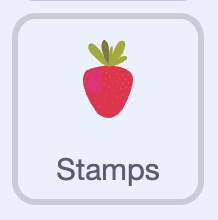
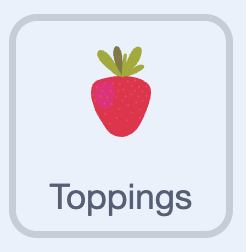
edits

diff --git a/en/step_7.md b/en/step_7.md
@@ -1,6 +1,14 @@
 ## Add encouragement
 
-In this step, you'll add pop-up **nice comments** that cheer the player on. 
+In this step, you'll add pop-up **comments** that cheer the player on.
+
+--- task ---
+
+Add a new sprite for your comments, and make a costume for each message — you can type words like "So sweet!" or "Yum!", or use pictures.
+
+![Making costumes for the nice comments, one message per costume.](images/nice-comments.gif)
+
+--- /task ---
 
 --- task ---
 
@@ -10,7 +18,85 @@ Click **Make a Variable** and create a variable called `click count`. It counts 
 
 --- task ---
 
-Select the `toppings` sprite.
+Make the comment start hidden and reset the count when the project starts.
+
+```blocks3
+when green flag clicked
+set [click count v] to (0)
+hide
+```
+
+--- /task ---
+
+--- task ---
+
+Add a `forever`{:class="block3control"} loop. Once `click count`{:class="block3variables"} passes a random number, it shows the comment for a couple of seconds, then hides it and resets the count.
+
+```blocks3
+when green flag clicked
+set [click count v] to (0)
+hide
++forever
+if <(click count) > (pick random (20) to (50))> then
+show
+wait (2) seconds
+set [click count v] to (0)
+hide
+end
+end
+```
+
+--- /task ---
+
+--- task ---
+
+Add a `switch costume to ()`{:class="block3looks"} block so a random comment shows. Change the `4` in `pick random (1) to (4)`{:class="block3operators"} to match how many comment costumes you have made.
+
+```blocks3
+when green flag clicked
+set [click count v] to (0)
+hide
+forever
+if <(click count) > (pick random (20) to (50))> then
++switch costume to (pick random (1) to (4))
+show
+wait (2) seconds
+set [click count v] to (0)
+hide
+end
+end
+```
+
+--- /task ---
+
+
+--- task ---
+
+Add a `start sound ()`{:class="block3sound"} block, and choose a sound from the sound library.
+
+```blocks3
+when green flag clicked
+set [click count v] to (0)
+hide
+forever
+if <(click count) > (pick random (20) to (50))> then
+switch costume to (pick random (1) to (4))
+show
++start sound (Wand v)
+wait (2) seconds
+set [click count v] to (0)
+hide
+end
+end
+```
+
+--- /task ---
+
+--- task ---
+
+Select the **toppings** sprite.
+
+![The toppings sprite.](images/choose-topping.png)
 
 Add a `change () by ()`{:class="block3variables"} block so `click count`{:class="block3variables"} goes up by `1` each time a topping is stamped.
 
@@ -24,36 +110,4 @@ end
 
 --- /task ---
 
---- task ---
-
-Add a new sprite for your comments. In the **Costumes** tab, make a costume for each message — you can type words like "So sweet!" or "Yum!", or draw little pictures.
-
-![Making costumes for the nice comments, one message per costume.](images/nice-comments.png)
-
---- /task ---
-
---- task ---
-
-Add the **Wand** sound to the comments sprite, then add this script. It hides the comment, and after enough stamps it shows a random message for a couple of seconds before resetting.
-
-Change the `4` in `pick random (1) to (4)`{:class="block3operators"} to match how many comment costumes you made.
-
-```blocks3
-when green flag clicked
-set [click count v] to (0)
-hide
-forever
-if <(click count) > (pick random (20) to (50))> then
-switch costume to (pick random (1) to (4))
-show
-start sound (Wand v)
-wait (2) seconds
-set [click count v] to (0)
-hide
-end
-end
-```
-
---- /task ---
-
-**Test:** Click the green flag and decorate. After a while, a nice comment pops up to cheer you on.
+**Test:** Click the green flag and decorate, and see nice comments pop up to cheer you on.

diff --git a/en/step_5.md b/en/step_5.md
@@ -1,16 +1,16 @@
 ## Add a chooser button
 
-In this step, you'll make a **chooser** button for a topping and place it at the top of the stage.
+In this step, you'll make a **chooser** button and place it at the top of the stage.
 
 --- task ---
 
-In the `toppings` sprite add a new **costume**. Give your new costume a name, like `bow`, so you can find it later.
+In the **toppings** sprite add a new **costume**. Give your new costume a name, like `bow`, so you can find it later.
 
-![Duplicating a topping costume and editing it into a new topping.](images/second-topping.png)
+![Duplicating a topping costume and editing it into a new topping.](images/second-topping.gif)
 
 --- /task ---
 
-Your `toppings` sprite now has more than one costume to stamp.
+Your **toppings** sprite now has more than one costume to stamp.
 
 --- task ---
 
@@ -32,7 +32,7 @@ go to x: (-135) y: (154)
 
 --- task ---
 
-Add a **broadcast** message when clicked. Drag a `broadcast ()`{:class="block3events"} block onto a `when this sprite clicked`{:class="block3events"} block and make a new message.
+Add a `broadcast`{:class="block3events"} message block onto a `when this sprite clicked`{:class="block3events"} block and make a new message.
 
 ```blocks3
 when this sprite clicked
@@ -45,8 +45,7 @@ broadcast (bow v)
 
 Make the button feel like it is being clicked by moving it and adding sound.
 
-Add the `change y` and `play sound` to your blocks. Choose a sound from the library.
-
+Add the `change y` and `play sound` to your blocks. 
 
 ```blocks3
 when this sprite clicked
@@ -64,13 +63,21 @@ To make a chooser for your other toppings, **duplicate** this sprite, and change
 
 Move it to a different spot along the top and change the `broadcast ()`{:class="block3events"} message to match.
 
+add gif of duplicate
+
 --- /task ---
 
 --- task ---
 
-The topping now follows the mouse everywhere, including over the chooser buttons. Make it **hide** when it's up near the choosers so it doesn't block them.
+new sprite - topping
 
-Select the `toppings` sprite and add an `if then else`{:class="block3control"} block at the end of the `forever`{:class="block3control"} loop: if the `y position`{:class="block3motion"} is above `125`, it hides; otherwise it shows.
+The topping follows curser, and blocks the button. Make it **hide** when it's up near the choosers so it doesn't block them.
+
+Select the **toppings** sprite.
+
+![The toppings sprite.](images/choose-topping.png)
+
+Add an `if then else`{:class="block3control"} block at the end of the `forever`{:class="block3control"} loop: if the `y position`{:class="block3motion"} is above `125`, it hides; otherwise it shows.
 
 ```blocks3
 forever
@@ -91,4 +98,4 @@ end
 
 --- /task ---
 
-**Test:** Click the green flag. Your chooser buttons sit along the top and wobble when clicked, and the topping hides when you move up to them so you can click the buttons.
+**Test:** Click the green flag.The topping hides, and you can click the buttons.

diff --git a/en/step_4.md b/en/step_4.md
@@ -4,13 +4,15 @@ Right now your topping stamps anywhere you click. In this step, you'll make it s
 
 --- task ---
 
-Select the `toppings` sprite.
+Select the **toppings** sprite.
+
+![The toppings sprite.](images/choose-topping.png)
 
 --- /task ---
 
 --- task ---
 
-On the **Code** add an `if then`{:class="block3control"} block to `mouse down`{:class="block3sensing"} block, and drag the `stamp` into this. 
+In the **Code** tab, add an `if then`{:class="block3control"} block to `mouse down`{:class="block3sensing"} block, and drag the `stamp` into this. 
 
 Click the colour box in the `touching color`{:class="block3sensing"} block, then use the **eyedropper** to pick the main colour from your cake.
 
@@ -25,9 +27,8 @@ end
 
 --- /task ---
 
-
 **Test:** Click the green flag and try stamping. Your topping only stamps when the mouse is over the cake.
 
-**Tip:** If your cake has two main colours, you can check for both by joining two `touching color`{:class="block3sensing"} blocks with an `or`{:class="block3operators"} block.
+**Tip:** If your cake has more than one colour, you can check for both by joining two `touching color`{:class="block3sensing"} blocks with an `or`{:class="block3operators"} block.
 
 

diff --git a/en/step_8.md b/en/step_8.md
@@ -1,18 +1,20 @@
 ## Bring it to life
 
-In this step, you'll add a **backdrop** behind your cake and some **music** that plays while the player decorates.
+Add a **backdrop** behind your cake and some **music** that plays while the player decorates.
 
 --- task ---
 
-Click the **Stage** in the bottom-right, then hover over **Choose a Backdrop** and pick one you like — or click **Paint** to make your own.
+Click the **Stage** in the bottom-right, then **Choose a Backdrop** and pick one you like — or click **Paint** to make your own.
 
 ![Choosing a backdrop for the stage.](images/backdrop.png)
+
+**Tip:** Make sure your backdrop is a different colour to your cake, so it doesn't interfere with the `touching color`{:class="block3sensing"} block.
 
 --- /task ---
 
 --- task ---
 
-With the **Stage** still selected, click the **Sounds** tab and add a piece of music you like from the sound library.
+Click the **Sounds** tab and add a piece of loop music you like from the sound library, or upload your own.
 
 --- /task ---
 
@@ -31,4 +33,3 @@ end
 
 **Test:** Click the green flag. Your cake now has a backdrop and music playing while you decorate.
 
---- save ---

diff --git a/en/step_9.md b/en/step_9.md
@@ -43,9 +43,9 @@ change y by (-1)
 
 --- task ---
 
-Now give the cake more costumes to switch between. Select the `cake` sprite, and in the **Costumes** tab, **duplicate** your cake costume and change it into different cakes. Keep the main colour the same so your toppings still stamp on them.
+Now give the cake more costumes to switch between. Select the **cake** sprite, and in the **Costumes** tab, **duplicate** your cake costume and change it into different cakes. Keep the main colour the same so your toppings still stamp on them.
 
-![Duplicating the cake costume and editing it into a different cake.](images/different-cakes.png)
+![Duplicating the cake costume and editing it into a different cake.](images/different-cakes.gif)
 
 --- /task ---
 
@@ -57,7 +57,7 @@ Create a variable called `layer type` and **untick** it to hide it. It remembers
 
 --- task ---
 
-On the `cake` sprite, set `layer type` to `1` at the start of its green-flag script.
+On the **cake** sprite, set `layer type` to `1` at the start of its green-flag script.
 
 ```blocks3
 when green flag clicked

diff --git a/en/step_2.md b/en/step_2.md
@@ -10,13 +10,13 @@ Start a new Scratch project.
 
 --- task ---
 
-In the costume tab, delete the cat and create your topping. A topping can be anything you like — sprinkles, a strawberry, a bow, or a candle. 
+In the **costume tab**, delete the cat and create or choose your topping. A topping can be anything you like — sprinkles, a strawberry, a bow, or a candle. 
 
 --- /task ---
 
 --- task ---
 
-Name the sprite `toppings`, because later it will hold lots of different toppings.
+Name the sprite **toppings**, because later it will hold lots of different toppings.
 
 ![Choosing a topping sprite in Scratch and renaming it to toppings.](images/choose-topping.png)
 
@@ -24,7 +24,7 @@ Name the sprite `toppings`, because later it will hold lots of different topping
 
 --- task ---
 
-Make the `toppings` sprite follow the mouse pointer around the stage.
+Make the **toppings** sprite follow the mouse pointer around the stage.
 
 ```blocks3
 when green flag clicked

diff --git a/en/step_6.md b/en/step_6.md
@@ -1,10 +1,12 @@
 ## Switch between toppings
 
-In this step, you'll make the `toppings` sprite **switch costume** when it receives each message, so clicking a chooser changes which topping you stamp.
+In this step, you'll make your **toppings** switch costume so clicking a chooser changes which topping you stamp.
 
 --- task ---
 
-Select the `toppings` sprite.
+Select the **toppings** sprite.
+
+![The toppings sprite.](images/choose-topping.png)
 
 For each topping, add a `when I receive ()`{:class="block3events"} script that `switch costume to ()`{:class="block3looks"} the matching costume.
 
@@ -28,4 +30,4 @@ switch costume to (strawberry v)
 
 **Test:** Click a chooser to pick a topping, then click on the cake to stamp it. You now have a working cake decorator!
 
-**Tip:** This is a great point to save your project. You can stop here with a simple decorator, or carry on to add cake types, nice comments, and more.
+

diff --git a/en/step_3.md b/en/step_3.md
@@ -1,25 +1,12 @@
 ## Make a cake
 
-In this step, you'll add your **cake**.
+In this step, you'll add your **cake** sprite.
 
 --- task ---
 
-Add a new sprite. 
-
---- /task ---
-
---- task ---
-
-In the costume tab, create your cake. A cake can be any shape or colour you like.
+Create a new sprite. In the costume tab, create your cake. A cake can be any shape or colour you like.
 
 ![Choosing a cake sprite in Scratch.](images/choose-cake.png)
-
---- /task ---
-
-
---- task ---
-
-Name the sprite `cake`.
 
 --- /task ---
 
@@ -38,4 +25,4 @@ stamp
 
 **Test:** Click the green flag and see that the cake appears in the middle of the stage.
 
-**Tip:** The `stamp` block still works even though the sprite is hidden, so you only see the stamped picture.
+**Tip:** `Stamping` the cake allows for the toppings to be drawn on top. If using a sprite, the toppings are drawn behind the cake and you can't see them.
